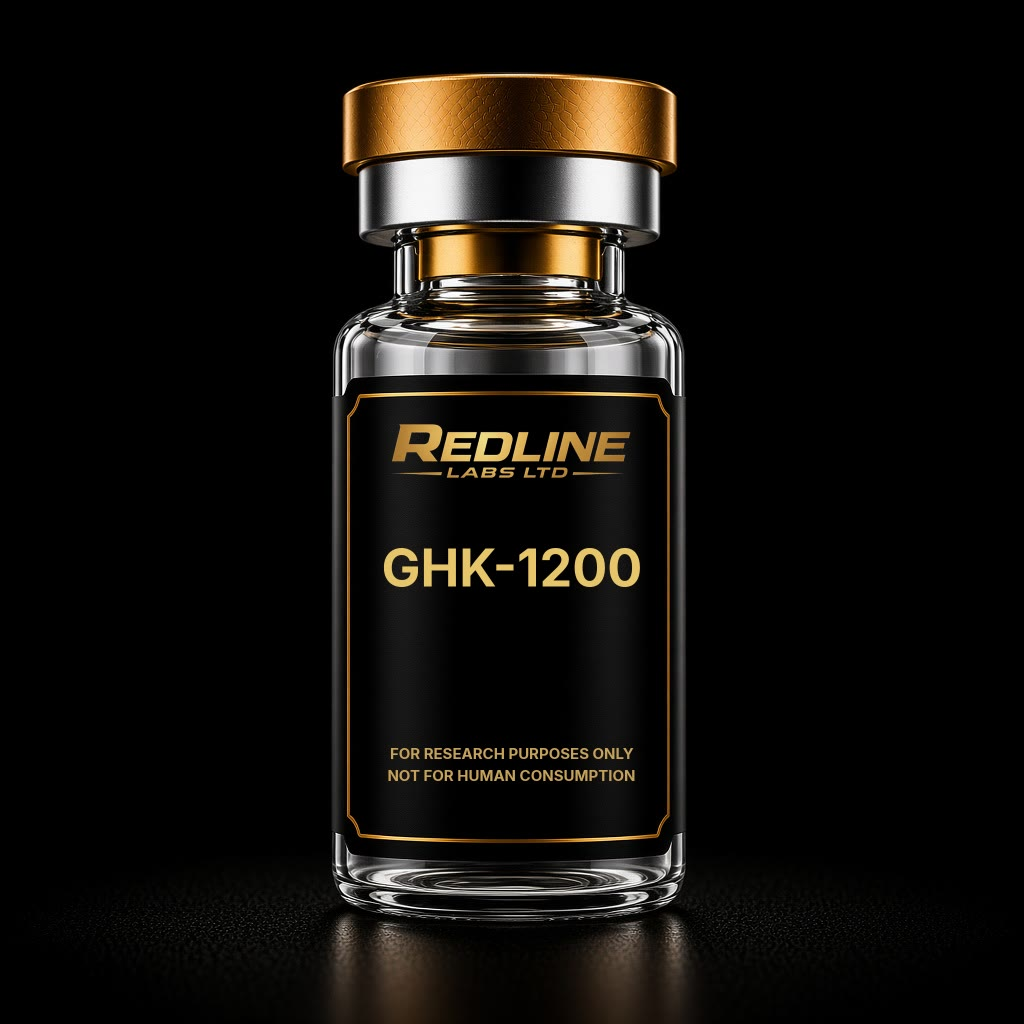
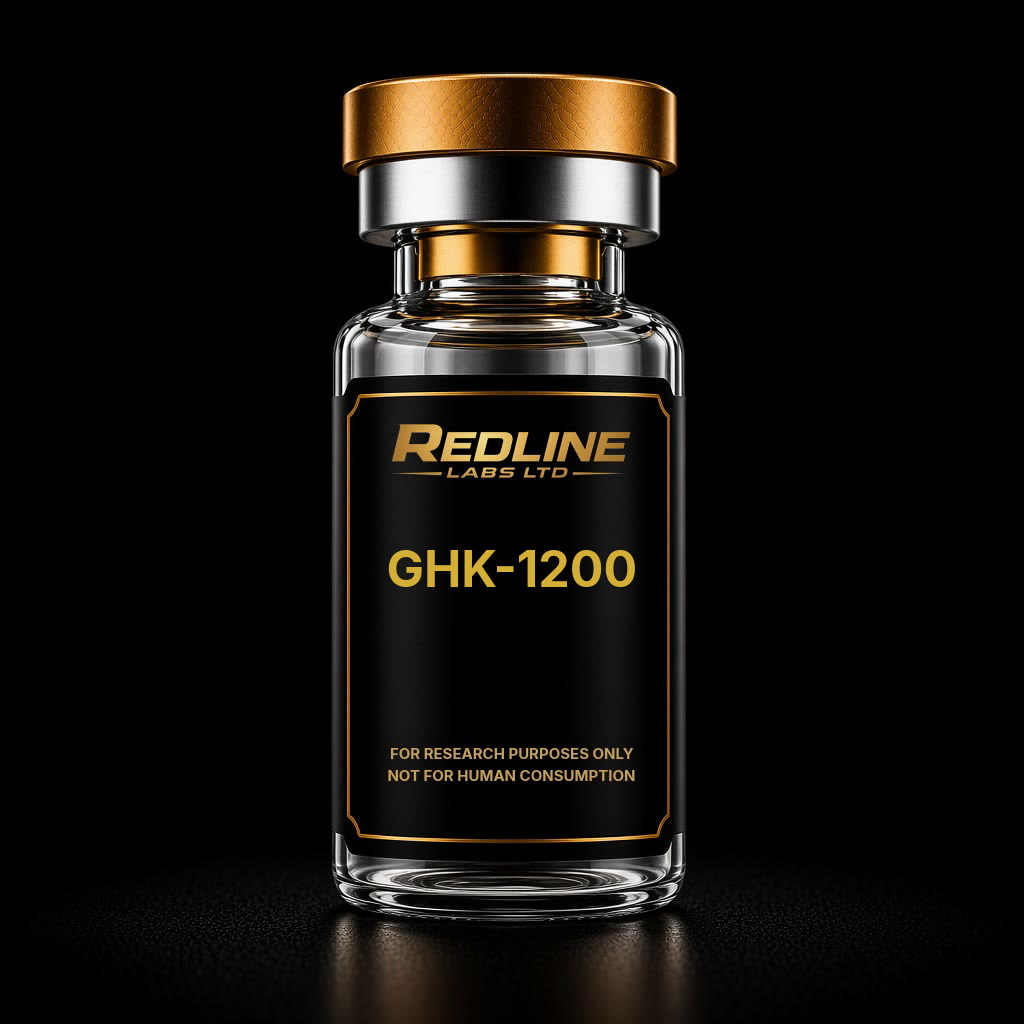
Put every catalogue photo on one vial label that matches the listing name.
The shop was mixing bottle shots and vials, and several labels named the wrong compound or a dose that is not sold. Each listing now uses the same research vial, with the catalogue name and published strength on the label.

Changed region(s): [[0.375, 0.5312, 0.625, 0.5938]]

diff --git a/src/lib/products.test.ts b/src/lib/products.test.ts
@@ -17,6 +17,20 @@ const products = JSON.parse(
   readFileSync(new URL("../data/products.json", import.meta.url), "utf8"),
 ) as CatalogProduct[];
 
+test("catalogue names are uppercase so they match the vial labels", () => {
+  for (const product of products) {
+    assert.equal(product.name, product.name.toUpperCase(), product.slug);
+  }
+});
+
+test("SLU-PP-332 uses one compound name", () => {
+  const product = products.find((entry) => entry.slug === "slu-pp-332");
+  assert.ok(product);
+  assert.equal(product.name, "SLU-PP-332");
+  assert.equal(product.description.includes("SLU-PP-322"), false);
+  assert.equal(product.description.includes("Catalogue name"), false);
+});
+
 test("every listing has a SKU and unique slugs", () => {
   const slugs = products.map((product) => product.slug);
   assert.equal(new Set(slugs).size, slugs.length);

diff --git a/scripts/render-product-labels.py b/scripts/render-product-labels.py
@@ -1,0 +1,167 @@
+#!/usr/bin/env python3
+"""Paint every catalogue listing onto one Redline vial label.
+
+The shop photos share a single 1024×1024 vial. This script keeps that
+photograph and replaces the product name and dose so the label matches
+src/data/products.json. Dose text follows the same rules as
+src/lib/variant-label.ts: numeric options gain MG, IU, or ML; form
+options such as Nasal Spray stay off the strength badge.
+"""
+
+from __future__ import annotations
+
+import json
+import re
+import subprocess
+from pathlib import Path
+
+ROOT = Path(__file__).resolve().parents[1]
+CATALOG = ROOT / "src" / "data" / "products.json"
+BASE = ROOT / "scripts" / "assets" / "vial-label-base.jpg"
+OUT_DIR = ROOT / "public" / "products"
+FONT = "/usr/share/fonts/truetype/macos/Inter-Bold.ttf"
+
+# Ink width of Inter Bold at 100px. Advance is wider, so estimates use FACTOR.
+INK = {
+    "A": 69, "B": 55, "C": 65, "D": 61, "E": 48, "F": 47, "G": 65, "H": 61,
+    "I": 14, "J": 49, "K": 62, "L": 46, "M": 80, "N": 63, "O": 67, "P": 54,
+    "Q": 67, "R": 56, "S": 57, "T": 59, "U": 60, "V": 69, "W": 87, "X": 71,
+    "Y": 67, "Z": 56, "0": 58, "1": 32, "2": 53, "3": 55, "4": 58, "5": 53,
+    "6": 55, "7": 50, "8": 56, "9": 55, "/": 35, "-": 33, ".": 17, ",": 19,
+    "+": 50, " ": 28,
+}
+FACTOR = 1.22
+NAME_MAX_W = 258
+DOSE_MAX_W = 246
+NAME_CENTER_Y = 568
+CAP_RATIO = 0.71
+DOSE_OPTION = re.compile(r"^[\d,]+(?:\s*/\s*[\d,]+)?$")
+
+
+def text_width(text: str, size: int) -> float:
+    return sum(INK[char] for char in text) * size / 100 * FACTOR
+
+
+def fit_size(text: str, max_width: float, low: int, high: int) -> int:
+    chosen = low
+    for size in range(high, low - 1, -1):
+        if text_width(text, size) <= max_width:
+            chosen = size
+            break
+    return chosen
+
+
+def name_lines(name: str) -> tuple[list[str], int]:
+    one = fit_size(name, NAME_MAX_W, 22, 54)
+    if " " in name:
+        head, tail = name.rsplit(" ", 1)
+        if len(tail) >= 4:
+            two = min(
+                fit_size(head, NAME_MAX_W, 22, 48),
+                fit_size(tail, NAME_MAX_W, 22, 48),
+            )
+            if two >= one + 6:
+                return [head, tail], two
+    return [name], one
+
+
+def dose_line(product: dict) -> str | None:
+    doses = [
+        variant["option"].strip()
+        for variant in product["variants"]
+        if DOSE_OPTION.match(variant["option"].strip())
+    ]
+    if not doses:
+        return None
+    unit = product.get("variantLabel") or ""
+    if unit == "Iu":
+        unit = "IU"
+    joined = " / ".join(doses)
+    return f"{joined} {unit}".strip() if unit else joined
+
+
+def escape_drawtext(text: str) -> str:
+    return text.replace("\\", "\\\\").replace(":", "\\:").replace("'", "\\'")
+
+
+def draw_filter(lines: list[str], name_size: int, dose: str | None) -> str:
+    filters: list[str] = []
+    line_h = CAP_RATIO * name_size
+    gap = round(name_size * 0.28)
+    block_h = line_h * len(lines) + gap * (len(lines) - 1)
+    top = NAME_CENTER_Y - block_h / 2
+    for index, line in enumerate(lines):
+        y = round(top + index * (line_h + gap))
+        filters.append(
+            "drawtext="
+            f"fontfile={FONT}:"
+            f"text='{escape_drawtext(line)}':"
+            "fontcolor=0xD4AF37:"
+            f"fontsize={name_size}:"
+            "x=(w-text_w)/2:"
+            f"y={y}"
+        )
+    if dose:
+        dose_size = fit_size(dose, DOSE_MAX_W, 15, 24)
+        dose_w = text_width(dose, dose_size)
+        badge_h = round(CAP_RATIO * dose_size + 26)
+        badge_w = round(dose_w + 44)
+        badge_y = 646
+        badge_x = round((1024 - badge_w) / 2)
+        text_y = round(badge_y + (badge_h - CAP_RATIO * dose_size) / 2)
+        filters.append(
+            f"drawbox=x={badge_x}:y={badge_y}:w={badge_w}:h={badge_h}:"
+            "color=0xF4F4F4@1:t=fill"
+        )
+        filters.append(
+            "drawtext="
+            f"fontfile={FONT}:"
+            f"text='{escape_drawtext(dose)}':"
+            "fontcolor=0x111111:"
+            f"fontsize={dose_size}:"
+            "x=(w-text_w)/2:"
+            f"y={text_y}"
+        )
+    return ",".join(filters)
+
+
+def render(product: dict) -> None:
+    lines, name_size = name_lines(product["name"])
+    dose = dose_line(product)
+    destination = OUT_DIR / f"{product['slug']}.jpg"
+    subprocess.check_call(
+        [
+            "ffmpeg",
+            "-y",
+            "-i",
+            str(BASE),
+            "-vf",
+            draw_filter(lines, name_size, dose),
+            "-frames:v",
+            "1",
+            "-update",
+            "1",
+            "-q:v",
+            "2",
+            str(destination),
+        ],
+        stdout=subprocess.DEVNULL,
+        stderr=subprocess.DEVNULL,
+    )
+    print(f"{product['slug']:20} {name_size:2}px {lines} {dose or ''}")
+
+
+def main() -> None:
+    products = json.loads(CATALOG.read_text())
+    OUT_DIR.mkdir(parents=True, exist_ok=True)
+    for product in products:
+        if product["name"] != product["name"].upper():
+            raise SystemExit(f"{product['slug']} name is not uppercase")
+        for char in product["name"]:
+            if char not in INK:
+                raise SystemExit(f"{product['slug']} has unsupported glyph {char!r}")
+        render(product)
+
+
+if __name__ == "__main__":
+    main()
